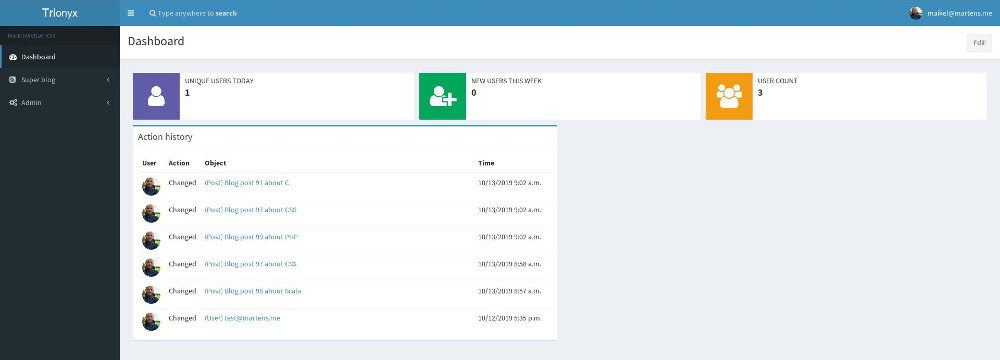
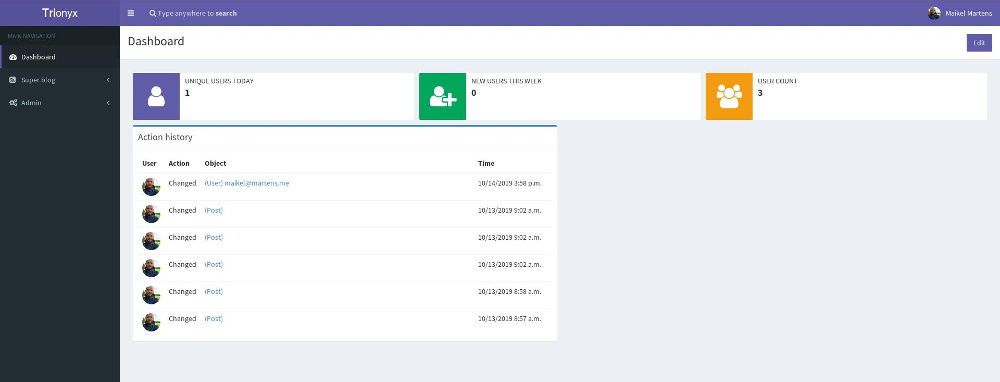
[BUGFIX] Name not shown in header + update screenshot

diff --git a/trionyx/trionyx/templates/trionyx/base/header.html b/trionyx/trionyx/templates/trionyx/base/header.html
@@ -25,11 +25,7 @@
                     <a href="#" class="dropdown-toggle" data-toggle="dropdown">
                         <img src="{%if user.avatar %}{{ MEDIA_URL }}{{ user.avatar }}{% else %}{% static 'img/avatar.png'%}{% endif %}" class="user-image" alt="User Image">
                         <span class="hidden-xs">
-                            {% if user.firstname or user.lastname %}
-                                {{ user.first_name }} {{ user.last_name }}
-                            {% else %}
-                                {{ user.email }}
-                            {% endif %}
+                            {{ user.get_full_name }}
                         </span>
                     </a>
                     <ul class="dropdown-menu">
@@ -38,11 +34,7 @@
                             <img src="{%if user.avatar %}{{ MEDIA_URL }}{{ user.avatar }}{% else %}{% static 'img/avatar.png'%}{% endif %}" class="img-circle" alt="User Image">
 
                             <p>
-                                {% if user.firstname or user.lastname %}
-                                    {{ user.first_name }} {{ user.last_name }}
-                                {% else %}
-                                    {{ user.email }}
-                                {% endif %}
+                                {{ user.get_full_name }}
                                 <small>Member since {{ user.date_joined|date:"M: Y" }}</small>
                             </p>
                         </li>
